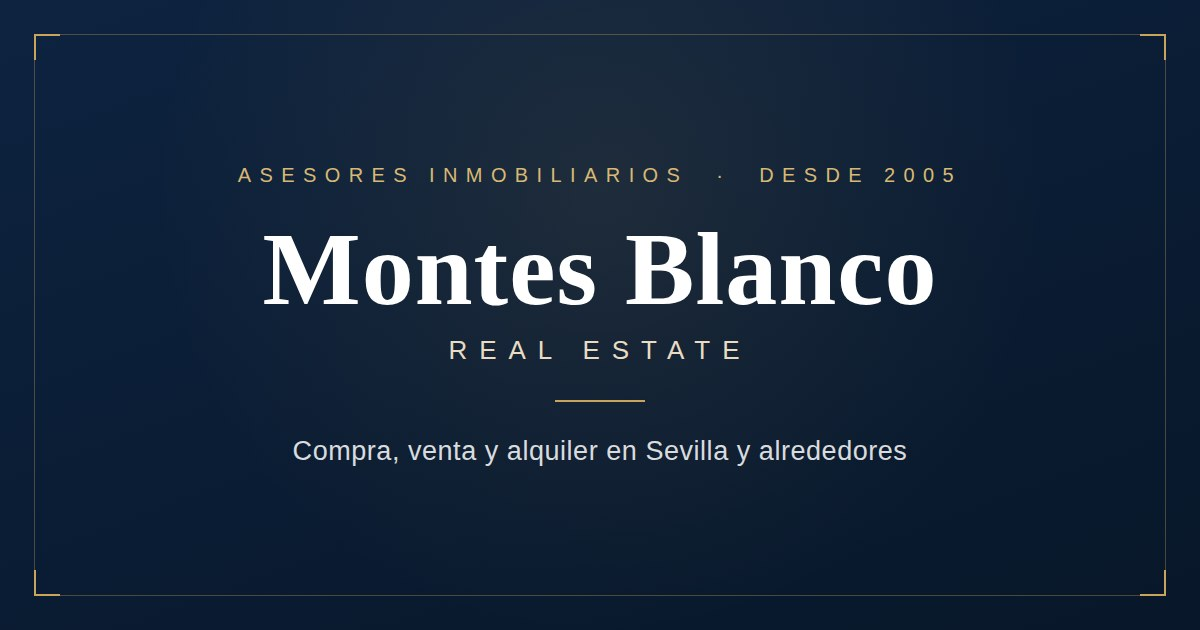
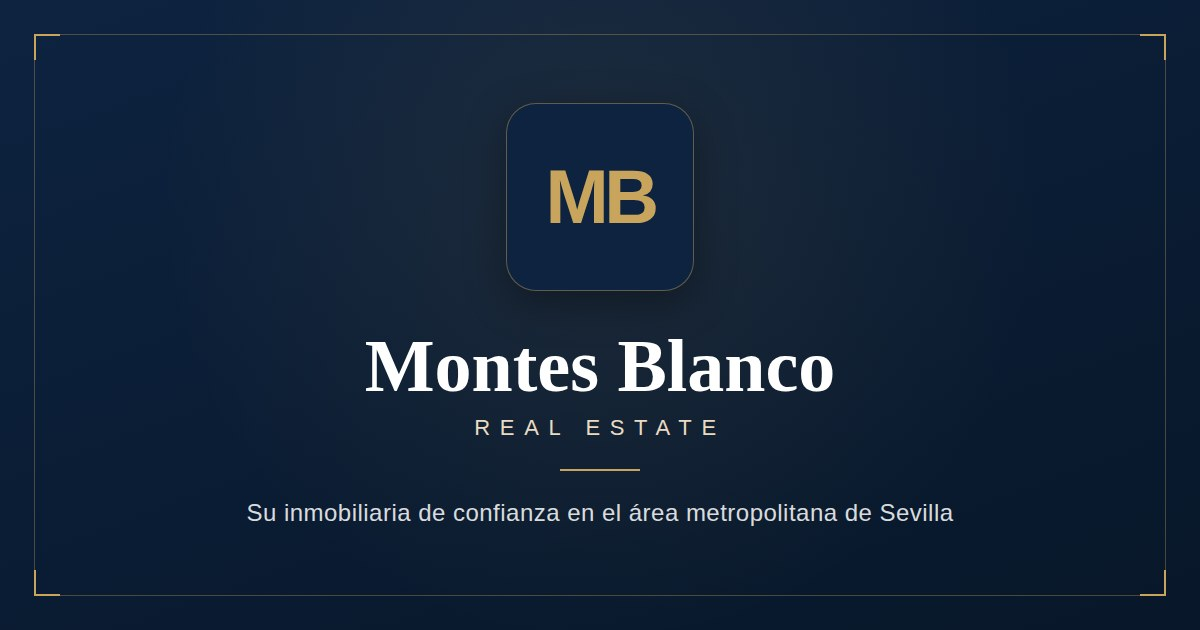
style(og): imagen de compartir con monograma MB destacado + cache-busting v2
https://claude.ai/code/session_01Y9otztRph34j4BpaASXL5H

diff --git a/index.html b/index.html
@@ -21,7 +21,7 @@
   <meta property="og:type" content="website">
   <meta property="og:title" content="Montes Blanco Real Estate">
   <meta property="og:description" content="Su inmobiliaria de confianza en el área metropolitana de Sevilla. Compra, venta y alquiler de viviendas y activos industriales desde 2005.">
-  <meta property="og:image" content="https://www.montesblanco.com/images/og-cover.jpg">
+  <meta property="og:image" content="https://www.montesblanco.com/images/og-cover.jpg?v=2">
   <meta property="og:image:width" content="1200">
   <meta property="og:image:height" content="630">
   <meta property="og:url" content="https://www.montesblanco.com">
@@ -29,7 +29,7 @@
   <meta name="twitter:card" content="summary_large_image">
   <meta name="twitter:title" content="Montes Blanco Real Estate">
   <meta name="twitter:description" content="Su inmobiliaria de confianza en el área metropolitana de Sevilla. Compra, venta y alquiler de viviendas y activos industriales desde 2005.">
-  <meta name="twitter:image" content="https://www.montesblanco.com/images/og-cover.jpg">
+  <meta name="twitter:image" content="https://www.montesblanco.com/images/og-cover.jpg?v=2">
 
   <!-- Favicon -->
   <link rel="icon" href="/favicon.ico?v=3" sizes="32x32">
